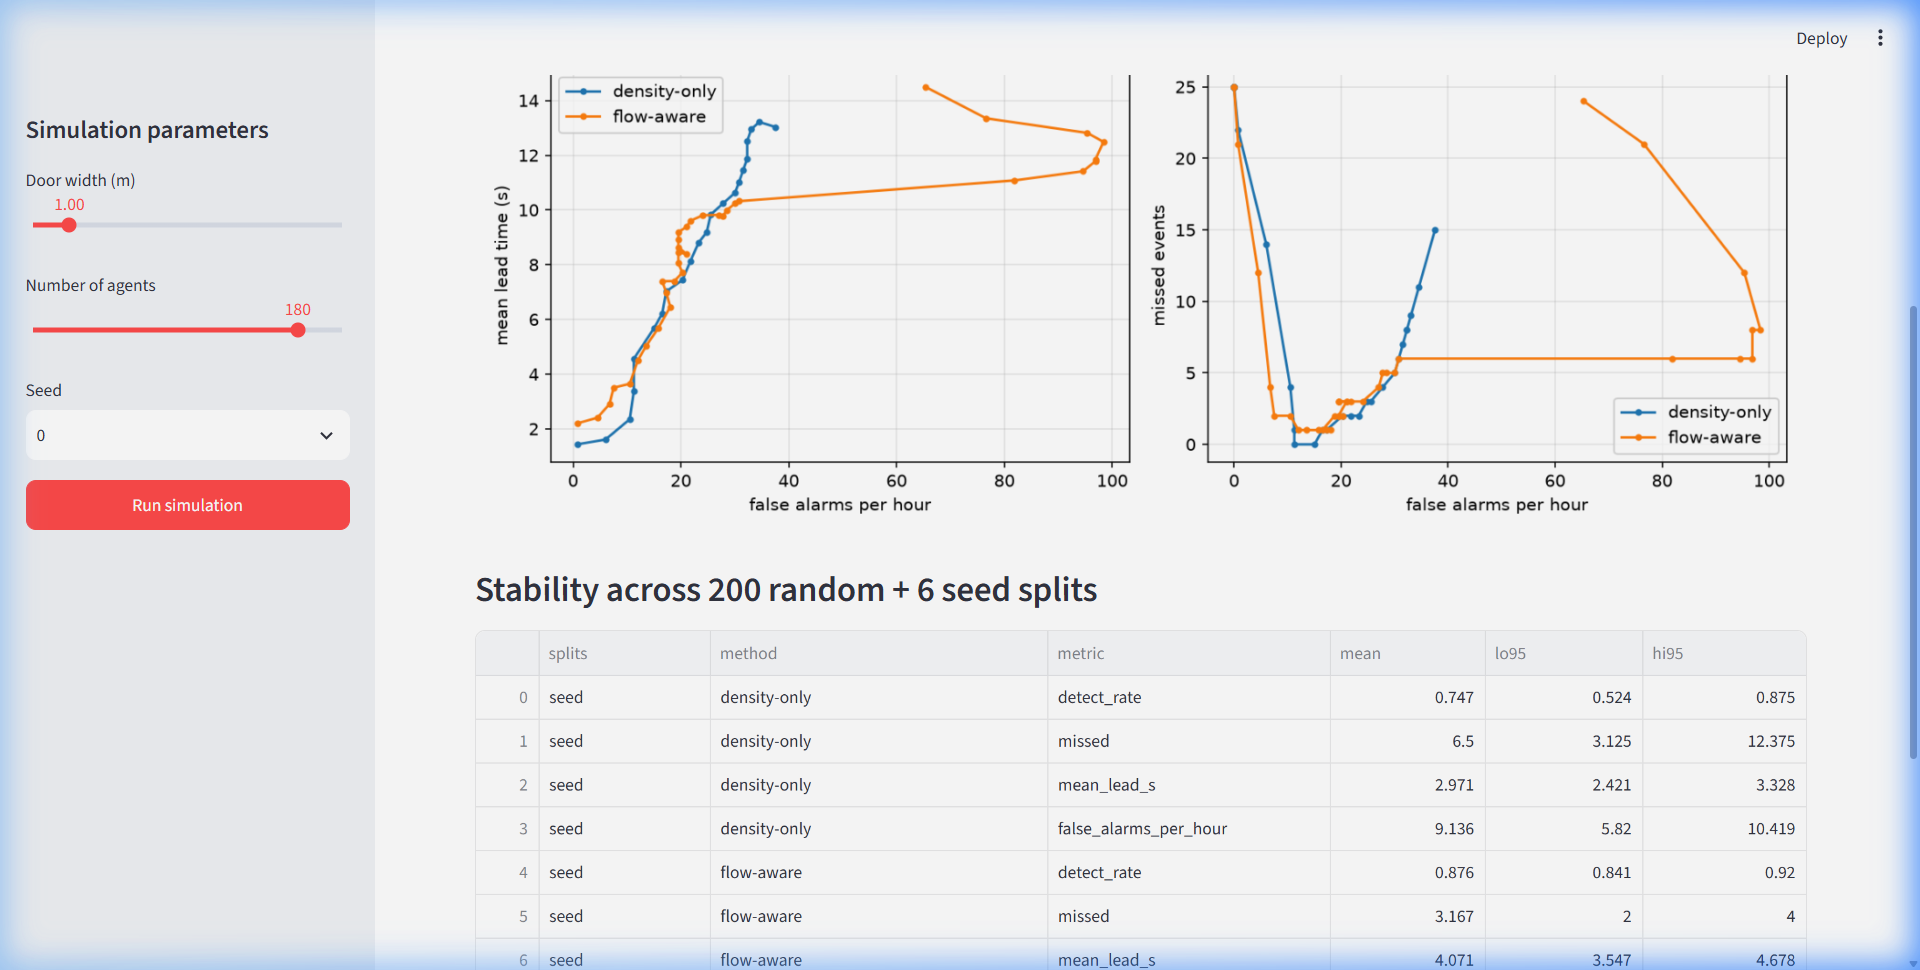
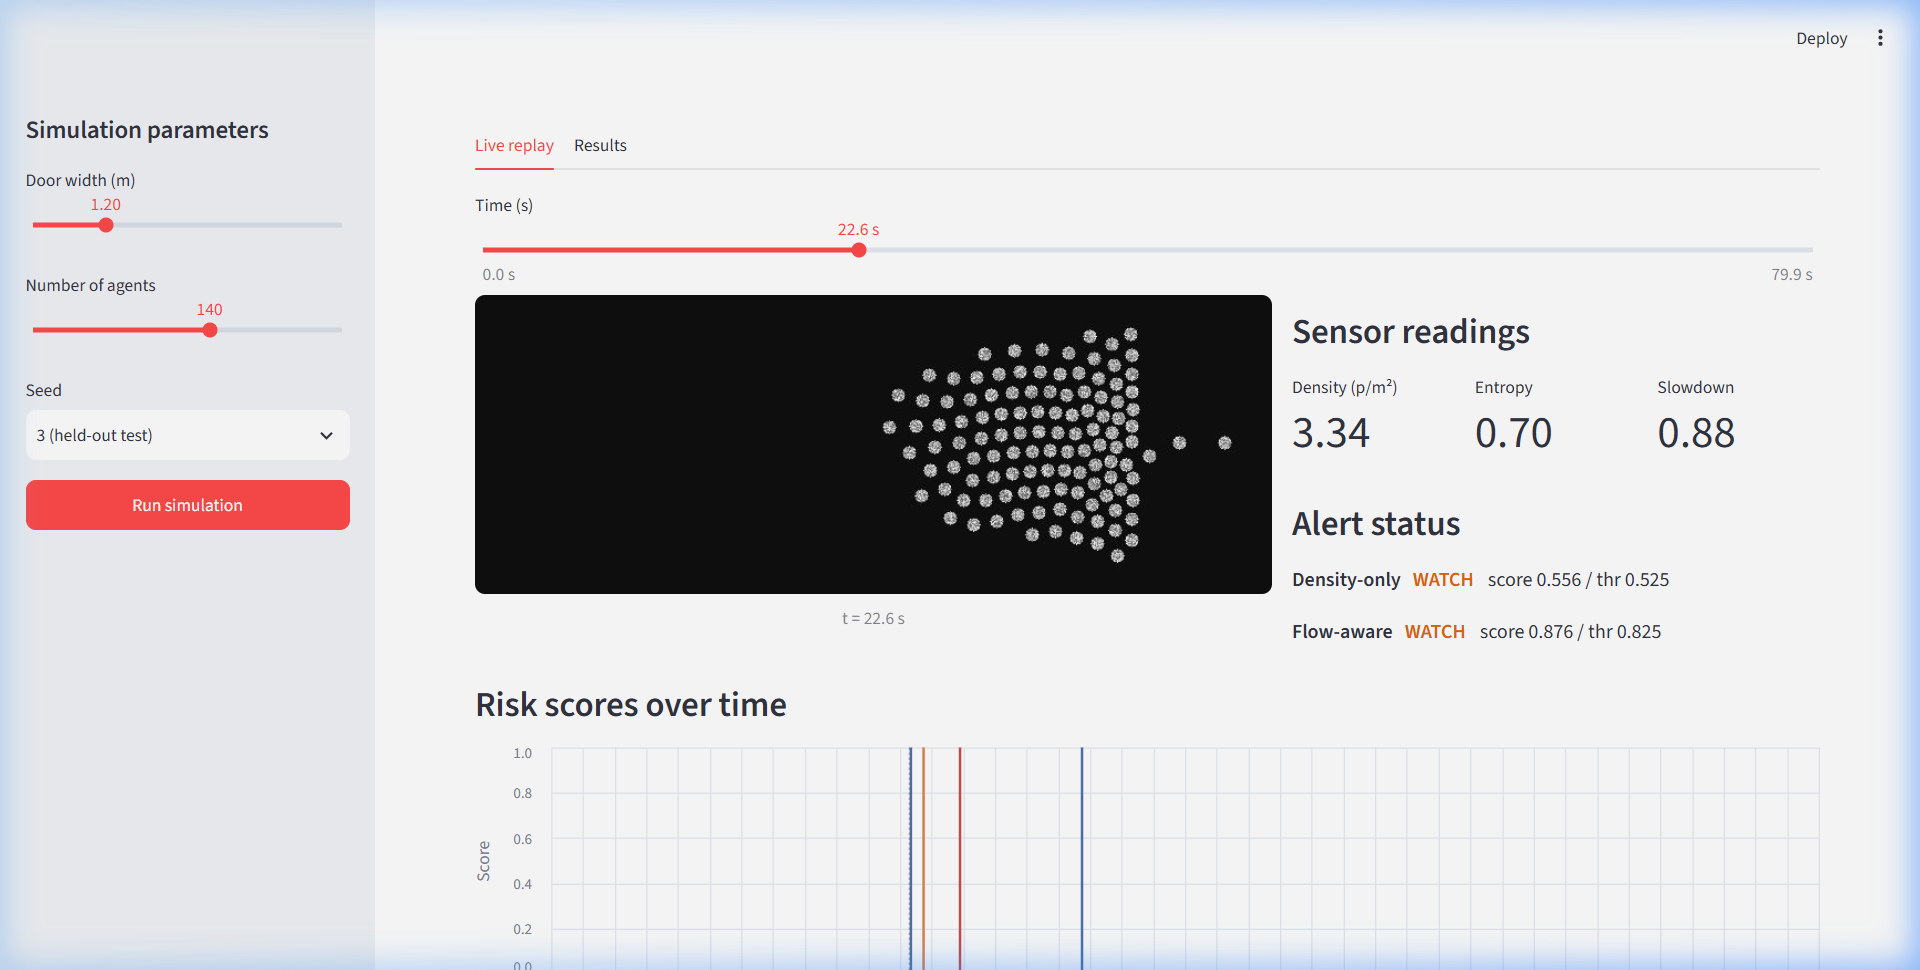
fix: sidebar defaults 1.2/140/seed-3, seed labels (train/held-out), width='stretch', caption 'shown below'; fresh screenshots

diff --git a/app.py b/app.py
@@ -151,11 +151,18 @@ def tab_live():
     with st.sidebar:
         st.header("Simulation parameters")
         door_w   = st.slider("Door width (m)",   min_value=0.8, max_value=2.5,
-                             value=1.0, step=0.1)
+                             value=1.2, step=0.1)
         n_agents = st.slider("Number of agents", min_value=60,  max_value=200,
-                             value=180, step=10)
-        seed     = st.selectbox("Seed", [0, 1, 2, 3], index=0)
-        run_btn  = st.button("Run simulation", type="primary", use_container_width=True)
+                             value=140, step=10)
+        _SEED_LABELS = {
+            "0 (train)": 0,
+            "1 (train)": 1,
+            "2 (held-out test)": 2,
+            "3 (held-out test)": 3,
+        }
+        seed_label = st.selectbox("Seed", list(_SEED_LABELS.keys()), index=3)
+        seed       = _SEED_LABELS[seed_label]
+        run_btn  = st.button("Run simulation", type="primary", width='stretch')
 
     if run_btn or "sim_result" not in st.session_state:
         with st.spinner("Running simulation…"):
@@ -190,7 +197,7 @@ def tab_live():
     with col_frame:
         jpg = sim["frames_jpg"][idx]
         if jpg:
-            st.image(jpg, caption=f"t = {t[idx]:.1f} s", use_container_width=True)
+            st.image(jpg, caption=f"t = {t[idx]:.1f} s", width='stretch')
 
     with col_info:
         st.subheader("Sensor readings")
@@ -286,7 +293,7 @@ def tab_live():
     )
     layers.append(cur_rule)
 
-    st.altair_chart(alt.layer(*layers).properties(height=260), use_container_width=True)
+    st.altair_chart(alt.layer(*layers).properties(height=260), width='stretch')
 
     # Summary text line
     def _fmt_time(lst, label="none"):
@@ -310,27 +317,27 @@ def tab_results():
     st.header("Evaluation results")
     st.caption(
         "Simulated crowds (JuPedSim). 120 runs. "
-        "Gain is modest; repeated-split ranges shown above."
+        "Gain is modest; repeated-split ranges shown below."
     )
 
     # results.csv
     if os.path.exists("data/results.csv"):
         st.subheader("Test-set results (fixed split: train seeds 0-1, test seeds 2-3)")
-        st.dataframe(pd.read_csv("data/results.csv").round(3), use_container_width=True)
+        st.dataframe(pd.read_csv("data/results.csv").round(3), width='stretch')
     else:
         st.warning("data/results.csv not found — run `python -m eval.run_eval` first.")
 
     # operating curves
     if os.path.exists("data/operating_curves.png"):
         st.subheader("Operating curves (test set)")
-        st.image("data/operating_curves.png", use_container_width=True)
+        st.image("data/operating_curves.png", width='stretch')
     else:
         st.warning("data/operating_curves.png not found.")
 
     # repeat_summary.csv
     if os.path.exists("data/repeat_summary.csv"):
         st.subheader("Stability across 200 random + 6 seed splits")
-        st.dataframe(pd.read_csv("data/repeat_summary.csv").round(3), use_container_width=True)
+        st.dataframe(pd.read_csv("data/repeat_summary.csv").round(3), width='stretch')
     else:
         st.warning("data/repeat_summary.csv not found — run `python -m eval.repeat_eval` first.")
 
